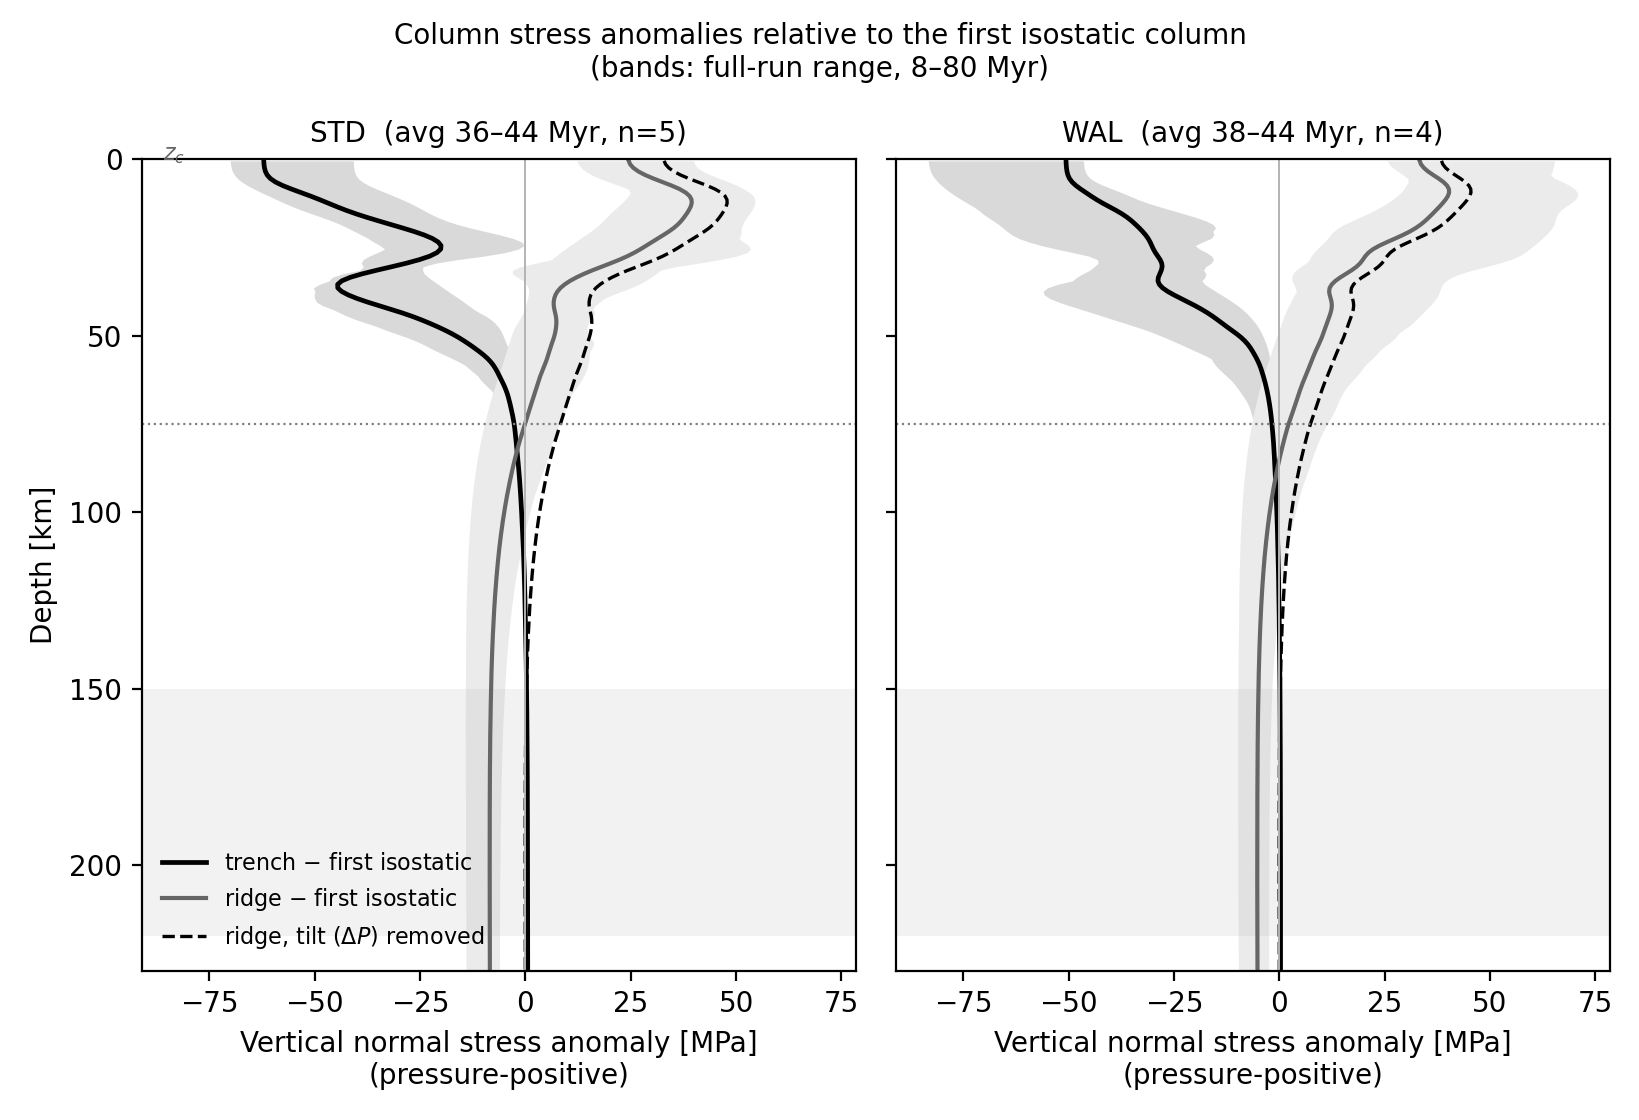
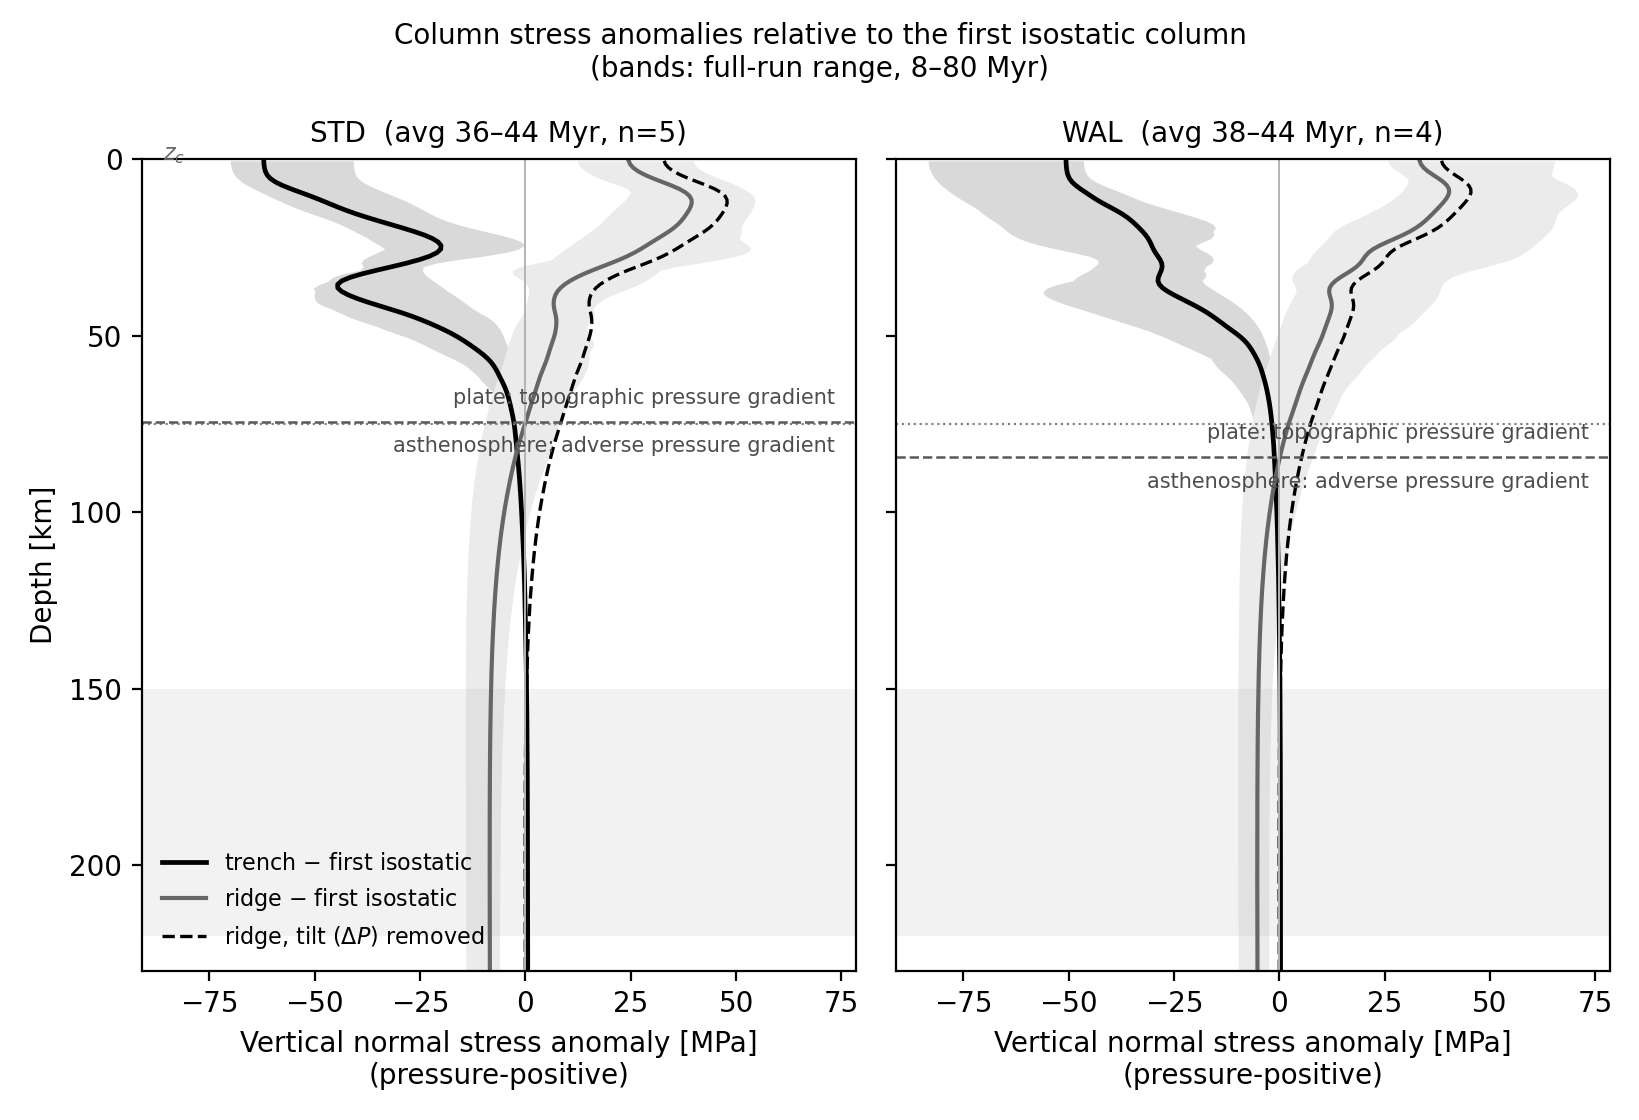
new figure: the two column stresses at the ridge, and regime annotations
Dan 2026-09-18. Only two parts of the stress field act on the vertical
faces of a column -- sigma_zz (integrating to Delta GPE*) and the
normal-stress difference (integrating to N_D); the third balance term,
basal shear, acts on the horizontal face. fig_ridge_column_stresses puts
those two differences side by side for the ridge-minus-first-isostatic
pair, mid-run average.

The contrast is the result: Delta sigma_zz holds a finite deep offset
(-8.4 STD / -5.2 WAL MPa, the asthenospheric pressure gradient) while
the normal-stress difference falls below 1 MPa by 102 / 88 km and sits
at -0.6 / -0.5 MPa below that -- the asthenosphere has no shear strength
to support a normal-stress difference. The deep part of Delta sigma_zz
is therefore a flow pressure, not a strength signal.

The trench column is deliberately excluded: its normal-stress difference
carries hundreds of MPa of flexural fibre stress and would swamp the
comparison.

fig_column_anomalies also gains the regime annotation: a dashed line at
the sign change, with the plate's topographic pressure gradient labelled
above and the adverse asthenospheric gradient below.

Changed region(s): [[0.2178, 0.3438, 0.529, 0.4062], [0.6846, 0.375, 0.9646, 0.4375]]

diff --git a/scripts/fig_ridge_column_stresses.py b/scripts/fig_ridge_column_stresses.py
@@ -1,0 +1,126 @@
+"""fig_ridge_column_stresses — the two column stresses at the ridge.
+
+Writes figures/fig_ridge_column_stresses.png and
+tables/ridge_column_stresses.csv from the committed column-profile cache.
+
+Only two parts of the stress field act on the vertical faces of a
+column: the vertical normal stress, whose difference integrates to
+Delta GPE*, and the normal-stress difference, whose integral is N_D.
+(The third term in the balance, basal shear, acts on the horizontal
+face.) This figure puts those two differences side by side for the same
+column pair — ridge minus first isostatic column — so their depth
+behaviour can be compared directly.
+
+  (a) Delta sigma_zz. Positive through the lithosphere (the cooling
+      topography), crossing zero near the base of the coherently
+      translating plate, then holding a FINITE deep offset: the
+      asthenospheric pressure gradient that tilts the plate.
+  (b) Delta (sigma_xx - sigma_zz). Large in the lithosphere, where the
+      ridge and the first isostatic column have very different thermal
+      and rheological structure, and then DECAYING TO ZERO by about
+      120 km — the asthenosphere has no shear strength with which to
+      support a normal-stress difference.
+
+The contrast is the point: below the plate one difference persists and
+the other does not, which is why the deep part of Delta sigma_zz is a
+flow pressure and not a strength signal.
+
+The TRENCH column is deliberately excluded (Dan, 2026-09-18). Its
+normal-stress difference carries the flexural fibre stress, hundreds of
+MPa, which would swamp the comparison; the trench profiles have their
+own figure.
+
+Mid-run average (36-44 Myr, conventions 4b), models overlaid in the
+brand colours per FIGURE_STYLE.md.
+
+DRAFT CAPTION. The two column stresses that act on vertical faces,
+differenced between the ridge and the first isostatic column and
+averaged over the mid-run window, for STD (navy) and WAL (magenta).
+(a) The vertical normal stress difference, whose integral is the
+plate-wide driving term: positive through the plate, crossing zero near
+its base, and holding a finite deep offset — the asthenospheric pressure
+gradient. (b) The normal-stress difference, whose integral is N_D: large
+within the lithosphere but decaying to zero by about 120 km, because the
+asthenosphere cannot support a normal-stress difference. The deep part of
+(a) is therefore a flow pressure, not a strength signal.
+"""
+import os, sys
+import numpy as np
+import matplotlib
+matplotlib.use('Agg')
+import matplotlib.pyplot as plt
+from scipy.ndimage import gaussian_filter1d
+
+sys.path.insert(0, os.path.dirname(os.path.abspath(__file__)))
+import column_profiles_cache as cpc
+from tables_io import write_table
+
+ROOT = os.path.dirname(os.path.dirname(os.path.abspath(__file__)))
+C = {'STD': '#002147', 'WAL': '#E5007D'}
+C_RULE = '#BFC3D1'
+ZERO_TOL_MPA = 1.0        # |value| below this counts as equilibrated
+
+def main():
+    d = cpc.load()
+    fig, axes = plt.subplots(1, 2, figsize=(10.0, 6.4), sharey=True)
+    rows = [('model', 'quantity', 'value')]
+    for key in ('STD', 'WAL'):
+        col = C[key]
+        c = cpc.derive(d, key)
+        m = c['mid']
+        z, zkm = c['z'], c['z'] / 1e3
+        sm = lambda a: gaussian_filter1d(a, 2)
+        dzz = sm(c['p_R'][m].mean(axis=0)) / 1e6                      # pressure register
+        nd = sm(((d[f'{key}_sxx_R'] - d[f'{key}_szz_R'])
+                 - (d[f'{key}_sxx_I'] - d[f'{key}_szz_I']))[m].mean(axis=0)) / 1e6
+        axes[0].plot(dzz, zkm, color=col, lw=2.0, label=key)
+        axes[1].plot(nd, zkm, color=col, lw=2.0, label=key)
+        # where each difference stops changing
+        deep = (zkm >= 150) & (zkm <= 240)
+        dP = dzz[deep].mean()
+        below = np.where((zkm > 40) & (np.abs(nd) < ZERO_TOL_MPA))[0]
+        z_nd0 = zkm[below[0]] if len(below) else np.nan
+        s = np.where((dzz[:-1] > 0) & (dzz[1:] <= 0) & (zkm[:-1] > 20))[0]
+        z_cross = zkm[s[0]] if len(s) else np.nan
+        axes[0].axvline(dP, color=col, lw=1.0, ls='-.')
+        axes[1].axhline(z_nd0, color=col, lw=1.0, ls=':')
+        print(f'{key}: dSzz deep offset {dP:+.2f} MPa (sign change {z_cross:.0f} km); '
+              f'd(Sxx-Szz) falls below {ZERO_TOL_MPA} MPa at {z_nd0:.0f} km, '
+              f'deep value {nd[deep].mean():+.2f} MPa')
+        rows += [(key, 'dSzz_deep_offset_MPa', f'{dP:.2f}'),
+                 (key, 'dSzz_sign_change_km', f'{z_cross:.0f}'),
+                 (key, 'dNSD_equilibration_depth_km', f'{z_nd0:.0f}'),
+                 (key, 'dNSD_deep_value_MPa', f'{nd[deep].mean():.2f}'),
+                 (key, 'dNSD_lithospheric_extreme_MPa', f'{nd[zkm < 60].min():.0f}')]
+    axes[0].set_xlabel(r'(a) $\Delta\sigma_{zz}$, ridge $-\,x_I$ [MPa]'
+                       '\n(dash-dot: deep offset)', fontsize=11)
+    axes[1].set_xlabel(r'(b) $\Delta(\sigma_{xx}-\sigma_{zz})$, ridge $-\,x_I$ [MPa]'
+                       '\n(dotted: equilibration depth)', fontsize=11)
+    axes[0].set_ylabel('Depth [km]', fontsize=11)
+    axes[0].set_ylim(250, 0)
+    for ax in axes:
+        ax.axvline(0, color='k', lw=1.6)
+        ax.grid(alpha=0.25, color=C_RULE, lw=0.6)
+    axes[0].legend(frameon=False, fontsize=10, loc='upper left')
+    axes[0].text(0.03, 0.74, 'persists at depth:\nasthenospheric\npressure gradient',
+                 transform=axes[0].transAxes, fontsize=8.5, color='0.3', va='top')
+    axes[1].text(0.56, 0.74, 'equilibrates by ~100 km:\nno shear strength\nto support it',
+                 transform=axes[1].transAxes, fontsize=8.5, color='0.3', va='top')
+    fig.suptitle('The two column stresses acting on vertical faces, ridge minus first '
+                 'isostatic column\n(mid-run average). One persists below the plate; '
+                 'the other does not.', fontsize=10.5)
+    fig.tight_layout()
+    out = os.path.join(ROOT, 'figures', 'fig_ridge_column_stresses.png')
+    fig.savefig(out, bbox_inches='tight', dpi=220)
+    print('written:', out)
+    tab = write_table('ridge_column_stresses', rows[0], rows[1:],
+                      script='fig_ridge_column_stresses.py',
+                      figure='fig_ridge_column_stresses.png',
+                      models=('STD', 'WAL'),
+                      meta={'midrun_window_Myr': list(cpc.MIDRUN_MYR),
+                            'deep_band_km': [150, 240],
+                            'zero_tolerance_MPa': ZERO_TOL_MPA})
+    print('written:', tab)
+
+if __name__ == '__main__':
+    main()

diff --git a/scripts/fig_column_anomalies.py b/scripts/fig_column_anomalies.py
@@ -72,6 +72,20 @@ def main():
         ax.axhspan(*cpc.DP_BAND_KM, color='0.6', alpha=0.12, lw=0)
         ax.set_title(f'{k}  (avg {c["t"][m].min():.0f}–{c["t"][m].max():.0f} Myr, n={m.sum()})',
                      fontsize=10)
+        # regime annotations (Dan, 2026-09-18): above the sign change the
+        # ridge column carries the plate's own topographic pressure
+        # gradient; below it the anomaly is the asthenospheric gradient,
+        # which stabilises onto Delta P.
+        pr = sm(c['p_R'][m].mean(axis=0)) / 1e6
+        sgn = np.where((pr[:-1] > 0) & (pr[1:] <= 0) & (zkm[:-1] > 20))[0]
+        z_x = zkm[sgn[0]] if len(sgn) else np.nan
+        ax.axhline(z_x, color='0.35', lw=0.9, ls='--')
+        ax.text(0.97, z_x - 4, 'plate: topographic pressure gradient',
+                transform=ax.get_yaxis_transform(), ha='right', va='bottom',
+                fontsize=7.5, color='0.3')
+        ax.text(0.97, z_x + 4, 'asthenosphere: adverse pressure gradient',
+                transform=ax.get_yaxis_transform(), ha='right', va='top',
+                fontsize=7.5, color='0.3')
         ax.set_xlabel('Vertical normal stress anomaly [MPa]\n(pressure-positive)')
     axes[0].set_ylabel('Depth [km]')
     axes[0].set_ylim(230, 0)
